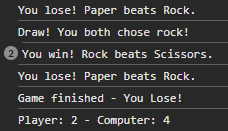
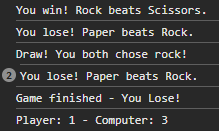
fixed fallthrough issue in play game switch statement; updated results output screenshot

diff --git a/script.js b/script.js
@@ -68,9 +68,11 @@ function playGame() {
         switch (playRound(getHumanChoice(), getComputerChoice())) {
             case win:
                 humanScore++;
+                break;
             case lose:
                 computerScore++;
-            case draw:
+                break;
+            default:
         }
     }
 